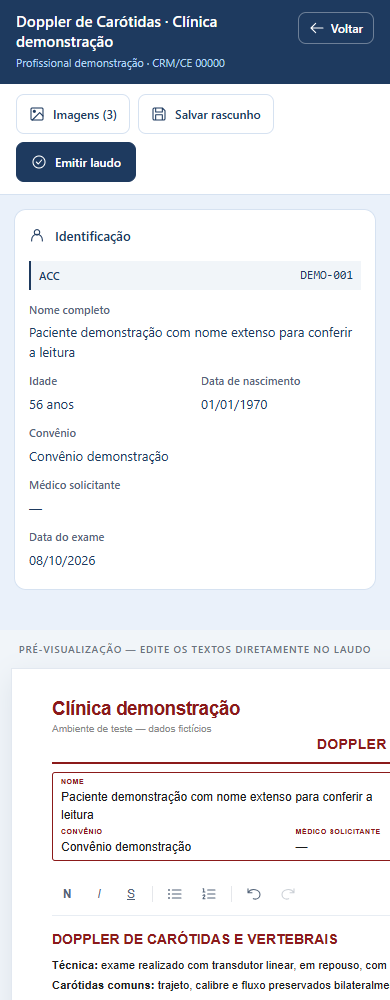
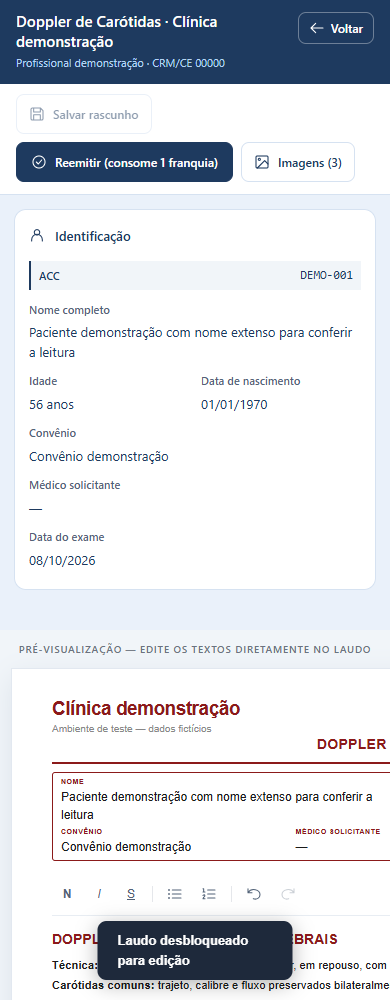
feat(laudo-texto): bloco do emitido igual ao ECO — selo + PDF + Copiar + Editar + Finalizar, e Imagens
Sergio 11/10: "o eco de carótidas deve seguir o mesmo padrão de emissão do ecocardio" valia pro
estado emitido inteiro, não só galeria/popup/PDF (eu tinha deixado o ModoEmitido de fora por
interpretação estreita). Agora:
- emitido FECHADO: ModoEmitido (PDF abre o assinado ou imprime o HTML atual com imagens assinadas;
  Copiar formatado/texto; Editar destrava com confirm de crédito e zera a emissaoKey; Finalizar →
  dashboard) + Imagens; editor read-only; galeria só leitura
- Editar → reedição: Salvar rascunho (travado) + Reemitir; galeria volta a selecionar (lista local,
  vale na reemissão em dadosFinais); editor editável
- montarPdfHtml() compartilhado entre emissão e PDF do emitido
- visual carótidas: ?closed=1 → 5 botões do emitido, editor contenteditable=false, Editar → Reemitir
tsc ok · unit 789/789 · visual carotidas 3/3

Changed region(s): [[0.2154, 0.899, 0.7692, 0.992], [0.0615, 0.093, 0.6769, 0.186], [0.6462, 0.155, 0.8923, 0.186]]

diff --git a/src/app/laudo-texto/[id]/page.tsx b/src/app/laudo-texto/[id]/page.tsx
@@ -20,12 +20,12 @@ import type { EditorLaudoRef } from '@/components/laudo/EditorLaudo';
 import MolduraA4 from '@/components/laudo/MolduraA4';
 import EditorIcon from '@/components/laudo/EditorIcon';
 import CabecalhoLaudo from '@/components/laudo/CabecalhoLaudo';
-import DicomGallery from '@/components/laudo/DicomGallery';
+import DicomGallery, { buscarUrlsAssinadas } from '@/components/laudo/DicomGallery';
 import { renderPaginasPdf } from '@/lib/pdf-imagens';
-import { PopupSalvarEmitir } from '@/components/laudo/PopupEmitir';
+import { PopupSalvarEmitir, ModoEmitido } from '@/components/laudo/PopupEmitir';
 import { precisaConfirmarEmissao, SEM_SELECAO_PREFIXO } from '@/lib/emissao-guarda';
 import { gerarPdfHtmlTexto } from '@/lib/pdf-texto';
-import { corSegura } from '@/lib/html-escape';
+import { corSegura, escaparHtml } from '@/lib/html-escape';
 import { idadeLabel, fmtData, fmtCep, fmtTel } from '@/lib/paciente-fmt';
 
 export default function LaudoTextoPage() {
@@ -83,6 +83,11 @@ export default function LaudoTextoPage() {
   // de qualquer jeito; sem isso aqui o médico só descobria pelo erro cru do
   // servidor em vez de uma mensagem honesta na hora do clique).
   const docFechado = ['emitido', 'cancelado'].includes((exame?.status as string) || '');
+  // Mesmo padrão do ECO (Sergio 11/10): emitido mostra o bloco do emitido
+  // (selo + PDF + Copiar + Editar + Finalizar); Editar destrava a tela
+  // (reedição) e o Reemitir fecha de novo.
+  const [reedicao, setReedicao] = useState(false);
+  const emitidoFechado = (exame?.status as string) === 'emitido' && !reedicao;
   const imagensDicom = (exame?.imagensDicom as string[] | undefined) || [];
   const clinicaEnd = fmtCep((workspace?.endereco as string) || '');
   // 2º telefone do local entrava no rodapé do motor e sumia no laudo-texto —
@@ -203,12 +208,10 @@ export default function LaudoTextoPage() {
     toast(ok ? 'Rascunho salvo' : 'Erro ao salvar rascunho');
   }
 
-  // Seleção como no ECO (ordem = ordem do clique). O laudo de texto NÃO tem o
-  // passo "Editar": editar o texto e Reemitir É a reedição. Então a seleção
-  // fica sempre possível (achado Sergio 11/10 — a 1ª versão travava a galeria
-  // no emitido e o médico não conseguia trocar as imagens da reemissão). No
-  // emitido a lista vive só na tela (a regra do Firestore nega o autosave) e
-  // ganha validade na reemissão, em dadosFinais — igual à reedição do ECO.
+  // Seleção como no ECO (ordem = ordem do clique). No emitido FECHADO a galeria
+  // é só leitura; Editar reabre a seleção, que vive só na tela (a regra do
+  // Firestore nega o autosave em emitido) e ganha validade na reemissão, em
+  // dadosFinais — igual à reedição do ECO.
   async function handleToggleSelecaoImagem(url: string) {
     if (!workspace?.id || !user?.uid) return;
     const nova = imagensSelecionadasPdf.includes(url)
@@ -221,6 +224,94 @@ export default function LaudoTextoPage() {
     } catch (e) {
       console.warn('Falha ao salvar seleção de imagens:', e);
     }
+  }
+
+  /** HTML do PDF (moldura + corpo + páginas de imagem) — emissão e botão PDF do emitido. */
+  function montarPdfHtml(incluirImagens: boolean): string {
+    if (!workspace || !exame) return '';
+    return gerarPdfHtmlTexto({
+      p1,
+      clinicaNome,
+      clinicaSlogan: (workspace.slogan as string) || '',
+      clinicaEnd,
+      clinicaTel: telCompleto,
+      logoB64: (workspace.logoB64 as string) || '',
+      tituloExame,
+      identificacao: {
+        nome: (exame.pacienteNome as string) || '—',
+        nasc: (exame.pacienteDtnasc as string) || '',
+        convenio: (exame.convenio as string) || '',
+        solicitante: (exame.solicitante as string) || '',
+        dataExame: (exame.dataExame as string) || '',
+      },
+      htmlCorpo: editorRef.current?.getHTML() || '',
+      htmlPosTabela: incluirImagens
+        ? renderPaginasPdf(imagensSelecionadasPdf, (exame.pacienteNome as string) || '', (exame.tipoExame as string) || '', p1)
+        : '',
+      assinatura: {
+        nome: (profile?.nome as string) || '',
+        especialidade: (profile?.especialidade as string) || '',
+        crm: (profile?.crm as string) || '',
+        ufCrm: (profile?.ufCrm as string) || '',
+        sigB64: (profile?.sigB64 as string) || '',
+      },
+    });
+  }
+
+  // ── Bloco do emitido (ModoEmitido) — mesmos atos do ECO ──
+  function handleFinalizar() {
+    toast('Atendimento finalizado');
+    router.push('/dashboard');
+  }
+  function handleEditar() {
+    if (!confirm('Ao editar e reemitir, será consumido 1 crédito da sua franquia.\n\nDeseja desbloquear para edição?')) return;
+    setReedicao(true);
+    emissaoKeyRef.current = null; // reedição = intenção nova (cobra)
+    toast('Laudo desbloqueado para edição');
+  }
+  /** "Gerar novamente" / PDF sem assinado: imprime o HTML atual com as imagens assinadas. */
+  async function handleImprimir() {
+    const win = window.open('', '_blank', 'width=900,height=700');
+    if (!win) return;
+    let html = montarPdfHtml(incluirImagensNoPdf);
+    if (workspace?.id && incluirImagensNoPdf && imagensSelecionadasPdf.length > 0) {
+      const assinadas = await buscarUrlsAssinadas(workspace.id, exameId, imagensSelecionadasPdf);
+      if (assinadas) for (const [canonica, assinada] of Object.entries(assinadas)) html = html.split(canonica).join(assinada);
+    }
+    try {
+      win.document.write(html);
+      win.document.close();
+    } catch {
+      alert('A janela de impressão foi fechada. Clique em PDF de novo.');
+    }
+  }
+  function handleCopiarFormatado() {
+    const temp = document.createElement('div');
+    temp.style.cssText = 'font-family:IBM Plex Sans,Arial,sans-serif;font-size:8.5pt;color:#1a1a1a;';
+    temp.innerHTML = `
+      <div style="background:${p1};color:#fff;font-size:8pt;font-weight:700;padding:3px 8px;">${escaparHtml(tituloExame)}</div>
+      <div style="border:1px solid #ddd;border-top:none;padding:4px 8px;">${editorRef.current?.getHTML() || ''}</div>
+    `;
+    document.body.appendChild(temp);
+    const range = document.createRange();
+    range.selectNodeContents(temp);
+    const sel = window.getSelection();
+    sel?.removeAllRanges();
+    sel?.addRange(range);
+    const copiou = document.execCommand('copy');
+    sel?.removeAllRanges();
+    temp.remove();
+    toast(copiou ? 'Copiado — cole com Ctrl+V no Word, Tasy ou MV' : 'Falha ao copiar — selecione e copie manualmente');
+  }
+  function handleCopiarTexto() {
+    const temp = document.createElement('div');
+    temp.innerHTML = editorRef.current?.getHTML() || '';
+    const texto = `${tituloExame}\n\n${temp.innerText.trim()}`;
+    navigator.clipboard.writeText(texto).then(() => {
+      toast('Copiado texto simples — cole no prontuário');
+    }).catch(() => {
+      toast('Falha ao copiar — selecione e copie manualmente');
+    });
   }
 
   async function handleEmitir(incluirImagens: boolean) {
@@ -239,35 +330,7 @@ export default function LaudoTextoPage() {
     setEmitindo(true);
 
     const laudoTextoHtml = editorRef.current?.getHTML() || '';
-    const paginasImagens = incluirImagens
-      ? renderPaginasPdf(imagensSelecionadasPdf, (exame.pacienteNome as string) || '', (exame.tipoExame as string) || '', p1)
-      : '';
-
-    const pdfHtml = gerarPdfHtmlTexto({
-      p1,
-      clinicaNome,
-      clinicaSlogan: (workspace.slogan as string) || '',
-      clinicaEnd,
-      clinicaTel: telCompleto,
-      logoB64: (workspace.logoB64 as string) || '',
-      tituloExame,
-      identificacao: {
-        nome: (exame.pacienteNome as string) || '—',
-        nasc: (exame.pacienteDtnasc as string) || '',
-        convenio: (exame.convenio as string) || '',
-        solicitante: (exame.solicitante as string) || '',
-        dataExame: (exame.dataExame as string) || '',
-      },
-      htmlCorpo: laudoTextoHtml,
-      htmlPosTabela: paginasImagens,
-      assinatura: {
-        nome: (profile?.nome as string) || '',
-        especialidade: (profile?.especialidade as string) || '',
-        crm: (profile?.crm as string) || '',
-        ufCrm: (profile?.ufCrm as string) || '',
-        sigB64: (profile?.sigB64 as string) || '',
-      },
-    });
+    const pdfHtml = montarPdfHtml(incluirImagens);
 
     let resultado: { ok: boolean; motivo?: string; pdfErro?: string };
     try {
@@ -341,18 +404,31 @@ export default function LaudoTextoPage() {
       <div className="laudo-coluna">
         <CabecalhoLaudo titulo={tipo?.nome || (exame?.tipoExame as string) || 'Laudo'} clinicaNome={clinicaNome} medicoInfo={medicoInfo} onVoltar={() => router.push('/agenda')} />
         <div className="laudo-command-line">
+          {emitidoFechado ? (
+            <ModoEmitido
+              onFinalizar={handleFinalizar}
+              onEditar={handleEditar}
+              onImprimir={handleImprimir}
+              onCopiarFormatado={handleCopiarFormatado}
+              onCopiarTexto={handleCopiarTexto}
+              pdfUrl={exame?.pdfUrl as string | undefined}
+            />
+          ) : (
+            <>
+              <button onClick={handleSalvarRascunho} disabled={salvando || emitindo || docFechado}
+                title={docFechado ? 'Laudo emitido — para alterar, use "Reemitir"' : undefined}
+                className="laudo-command-secondary">
+                <EditorIcon name="save" /> {salvando ? 'Salvando…' : 'Salvar rascunho'}
+              </button>
+              <button onClick={() => setPopupOpen(true)} disabled={salvando || emitindo} className="laudo-command-primary">
+                <EditorIcon name="check" /> {emitindo ? 'Emitindo…' : (exame?.status === 'emitido' ? 'Reemitir (consome 1 franquia)' : 'Emitir laudo')}
+              </button>
+            </>
+          )}
           <button onClick={() => setGaleriaOpen(true)} disabled={imagensDicom.length === 0}
             title={imagensDicom.length > 0 ? `Ver ${imagensDicom.length} imagens DICOM do exame` : 'Sem imagens DICOM ainda — aguarde Wader processar'}
             className={`laudo-command-secondary ${imagensDicom.length > 0 ? '' : 'bg-gray-200 text-gray-500'}`}>
             <EditorIcon name="image" /> {imagensDicom.length > 0 ? `Imagens (${imagensDicom.length})` : 'Imagens'}
-          </button>
-          <button onClick={handleSalvarRascunho} disabled={salvando || emitindo || docFechado}
-            title={docFechado ? 'Laudo emitido — para alterar, use "Reemitir"' : undefined}
-            className="laudo-command-secondary">
-            <EditorIcon name="save" /> {salvando ? 'Salvando…' : 'Salvar rascunho'}
-          </button>
-          <button onClick={() => setPopupOpen(true)} disabled={salvando || emitindo} className="laudo-command-primary">
-            <EditorIcon name="check" /> {emitindo ? 'Emitindo…' : (exame?.status === 'emitido' ? 'Reemitir (consome 1 franquia)' : 'Emitir laudo')}
           </button>
         </div>
         <div className="laudo-fields">
@@ -402,7 +478,7 @@ export default function LaudoTextoPage() {
             ],
           ]}
         >
-          <EditorLaudo ref={editorRef} placeholder="Digite o laudo…"
+          <EditorLaudo ref={editorRef} placeholder="Digite o laudo…" editable={!emitidoFechado}
             onDirty={() => { dirtyRef.current = true; }} />
         </MolduraA4>
       </div>
@@ -422,9 +498,9 @@ export default function LaudoTextoPage() {
         exameId={exameId}
         pacienteNome={exame?.pacienteNome as string | undefined}
         tipoExame={exame?.tipoExame as string | undefined}
-        permitirSelecao
+        permitirSelecao={!emitidoFechado}
         selecionadas={imagensSelecionadasPdf}
-        onToggleSelecao={handleToggleSelecaoImagem}
+        onToggleSelecao={emitidoFechado ? undefined : handleToggleSelecaoImagem}
       />
       <style jsx global>{`
         .laudo-texto-workspace .tiptap h2{font-size:10.5pt;font-weight:600;color:${p1};margin:2mm 0 1.5mm;}
